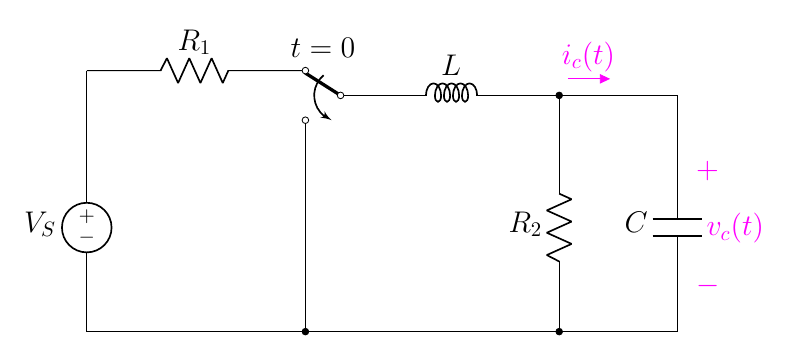
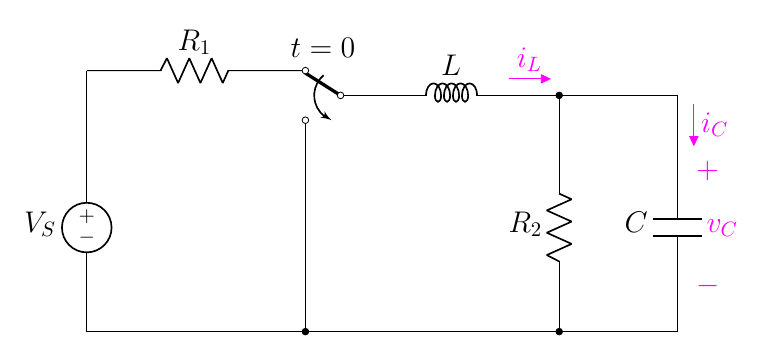
8.25

diff --git a/2.6 Overdamped/8.3.1 The Overdamp RLC Circuit/8.25(new).tex b/2.6 Overdamped/8.3.1 The Overdamp RLC Circuit/8.25(new).tex
@@ -41,10 +41,13 @@
     %%% find %%%
     \node at (4,4.8)[]{$t=0$};
     \draw[magenta](10.2,0.5)
-        to[open, v>=$v_c(t)$] ++(0,2.5);
+        to[open, v>=$v_C$] ++(0,2.5);
 
-    \draw[circuitikz/current arrow color=magenta](8,4)
-    to[open,f>^=$\color{magenta}{i_c(t)}$] ++(2.4,0);
+    \draw[circuitikz/current arrow color=magenta](10,4)
+    to[open,f>^=$\color{magenta}{i_C}$] ++(0,-2.4);
+
+    \draw[circuitikz/current arrow color=magenta](7,4)
+    to[open,f>^=$\color{magenta}{i_L}$] ++(2.4,0);
 
 \end{circuitikz}
 \end{document}
